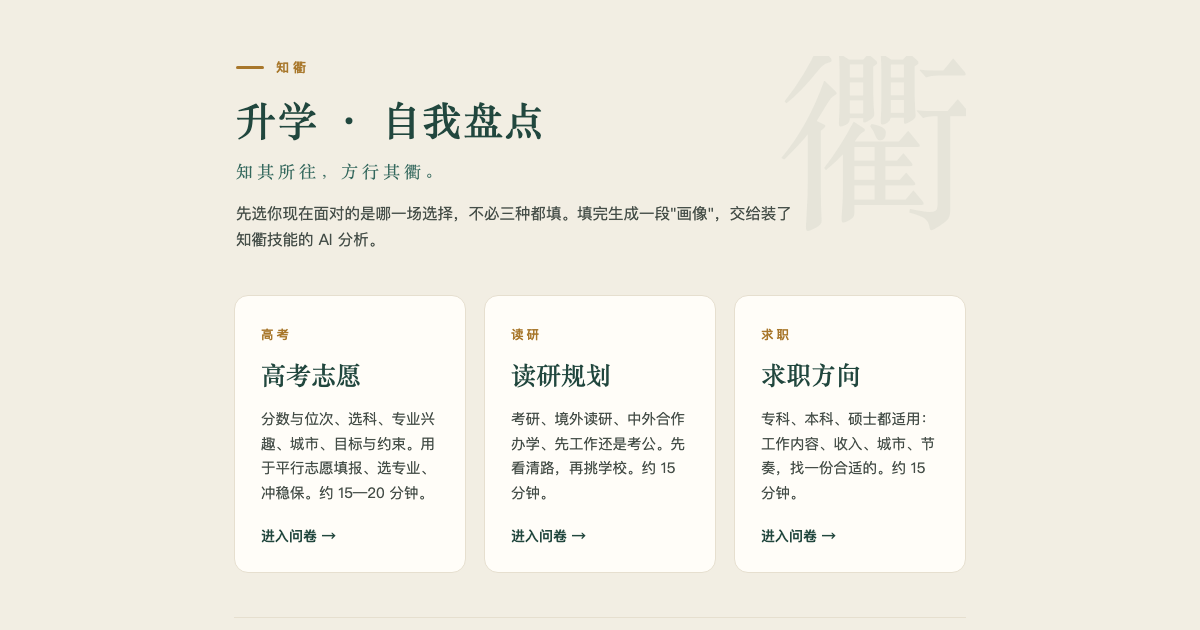
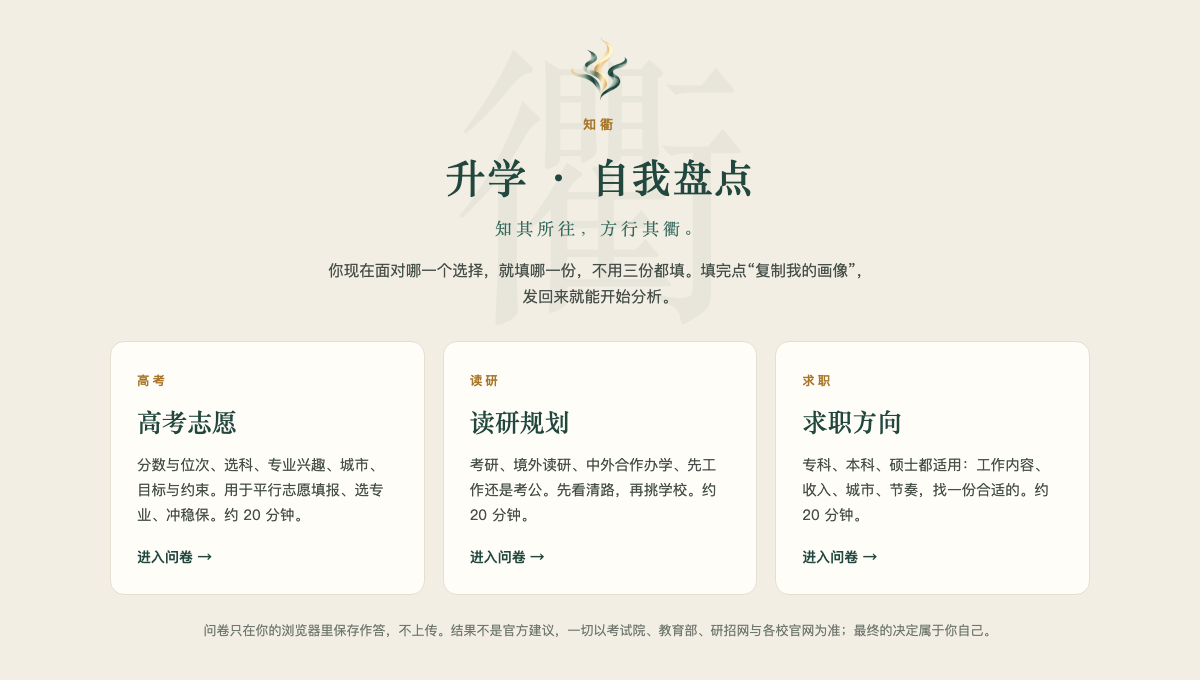
Entry page: one centred screen, watermark back, compact choices on narrow screens

diff --git a/index.html b/index.html
@@ -5,36 +5,37 @@
 <meta name="viewport" content="width=device-width, initial-scale=1.0">
 <title>知衢 · 升学自我盘点</title>
 <link rel="icon" type="image/png" href="assets/logo-192.png">
-<link rel="stylesheet" href="assets/questionnaire.css?v=20261019c">
+<link rel="stylesheet" href="assets/questionnaire.css?v=20261019d">
 </head>
-<body>
+<body class="landing">
 
-<div class="wrap">
+<main class="landing-wrap">
   <div class="hero">
+    <div class="hero-mark" aria-hidden="true">衢</div>
     <img class="hero-logo" src="assets/logo-192.png" alt="" width="64" height="64">
     <p class="eyebrow">知衢</p>
     <h1>升学 · 自我盘点</h1>
     <p class="motto">知其所往，方行其衢。</p>
-    <p class="tag">先选你现在面对的是哪一场选择，不必三种都填。填完点“复制我的画像”，发回来就能开始分析。</p>
+    <p class="tag">你现在面对哪一个选择，就填哪一份，不用三份都填。填完点“复制我的画像”，发回来就能开始分析。</p>
   </div>
 
   <div class="choices">
     <a class="choice" href="gaokao.html">
       <p class="c-eyebrow">高考</p>
       <h2>高考志愿</h2>
-      <p>分数与位次、选科、专业兴趣、城市、目标与约束。用于平行志愿填报、选专业、冲稳保。约 15—20 分钟。</p>
+      <p>分数与位次、选科、专业兴趣、城市、目标与约束。用于平行志愿填报、选专业、冲稳保。约 20 分钟。</p>
       <span class="c-go">进入问卷 →</span>
     </a>
     <a class="choice" href="grad.html">
       <p class="c-eyebrow">读研</p>
       <h2>读研规划</h2>
-      <p>考研、境外读研、中外合作办学、先工作还是考公。先看清路，再挑学校。约 15 分钟。</p>
+      <p>考研、境外读研、中外合作办学、先工作还是考公。先看清路，再挑学校。约 20 分钟。</p>
       <span class="c-go">进入问卷 →</span>
     </a>
     <a class="choice" href="career.html">
       <p class="c-eyebrow">求职</p>
       <h2>求职方向</h2>
-      <p>专科、本科、硕士都适用：工作内容、收入、城市、节奏，找一份合适的。约 15 分钟。</p>
+      <p>专科、本科、硕士都适用：工作内容、收入、城市、节奏，找一份合适的。约 20 分钟。</p>
       <span class="c-go">进入问卷 →</span>
     </a>
   </div>
@@ -42,6 +43,6 @@
   <div class="vow">
     问卷只在你的浏览器里保存作答，不上传。结果不是官方建议，一切以考试院、教育部、研招网与各校官网为准；最终的决定属于你自己。
   </div>
-</div>
+</main>
 </body>
 </html>

diff --git a/assets/questionnaire.css b/assets/questionnaire.css
@@ -150,7 +150,30 @@ textarea{resize:vertical;min-height:84px;}
 .choice p{margin:0 0 18px;font-size:14.5px;line-height:1.7;color:var(--ink-soft);flex:1;}
 .choice .c-go{font-size:14px;font-weight:600;color:var(--green-deep);}
 
-@media (max-width:860px){.choices{grid-template-columns:1fr;}}
+/* 入口页：一屏居中，不滚动 */
+.landing{min-height:100vh;min-height:100dvh;display:flex;align-items:center;justify-content:center;}
+.landing-wrap{width:100%;max-width:1060px;padding:clamp(20px,5vh,56px) 40px;}
+.landing .hero{text-align:center;overflow:visible;padding:0;}
+.landing .hero > :not(.hero-mark){position:relative;z-index:1;}
+.hero-mark{position:absolute;left:50%;top:50%;transform:translate(-50%,-52%);z-index:0;font-family:var(--serif);font-size:300px;line-height:1;color:var(--green-deep);opacity:.045;pointer-events:none;user-select:none;}
+.landing .hero-logo{margin:0 auto 12px;}
+.landing .eyebrow{justify-content:center;}
+.landing .hero .tag{margin:0 auto;}
+.landing .choices{margin:clamp(24px,4.5vh,44px) 0 0;}
+.landing .eyebrow::before{display:none;}
+.landing .vow{text-align:center;margin-top:clamp(16px,3.5vh,32px);border-top:0;padding-top:0;}
+@media (max-width:860px){.choices{grid-template-columns:1fr;}.landing .choices{gap:12px;margin-top:28px;}}
+@media (max-width:860px){
+  .landing .choice{display:grid;grid-template-columns:1fr auto;align-items:center;padding:16px 20px;}
+  .landing .choice .c-eyebrow,.landing .choice p:not(.c-eyebrow){display:none;}
+  .landing .choice h2{font-size:21px;margin:0;}
+}
+@media (max-width:560px){
+  .landing-wrap{padding:28px 16px;}
+  .landing .hero-logo{width:48px;height:48px;margin-bottom:10px;}
+  .hero-mark{font-size:200px;}
+  .landing .vow{font-size:12px;margin-top:22px;}
+}
 @media (max-width:560px){
   body{font-size:15.5px;}
   .wrap{padding:36px 16px 64px;}

diff --git a/gaokao.html b/gaokao.html
@@ -6,7 +6,7 @@
 <title>高考志愿 · 自我盘点</title>
 <script src="https://cdn.jsdelivr.net/npm/lunar-javascript@1.7.7/lunar.js" defer></script>
 <link rel="icon" type="image/png" href="assets/logo-192.png">
-<link rel="stylesheet" href="assets/questionnaire.css?v=20261019c">
+<link rel="stylesheet" href="assets/questionnaire.css?v=20261019d">
 </head>
 <body data-profile-kind="gaokao">
 
@@ -908,8 +908,8 @@
   </div>
 </div>
 
-<script src="assets/profile-recipient.js?v=20261019c"></script>
-<script src="assets/questionnaire.js?v=20261019c"></script>
+<script src="assets/profile-recipient.js?v=20261019d"></script>
+<script src="assets/questionnaire.js?v=20261019d"></script>
 <script>
   function updateBaziPreview(){
     var el=document.getElementById('baziPreview'); if(!el) return;

diff --git a/career.html b/career.html
@@ -6,7 +6,7 @@
 <title>求职 · 自我盘点</title>
 <script src="https://cdn.jsdelivr.net/npm/lunar-javascript@1.7.7/lunar.js" defer></script>
 <link rel="icon" type="image/png" href="assets/logo-192.png">
-<link rel="stylesheet" href="assets/questionnaire.css?v=20261019c">
+<link rel="stylesheet" href="assets/questionnaire.css?v=20261019d">
 </head>
 <body data-profile-kind="career">
 
@@ -819,8 +819,8 @@
   </div>
 </div>
 
-<script src="assets/profile-recipient.js?v=20261019c"></script>
-<script src="assets/questionnaire.js?v=20261019c"></script>
+<script src="assets/profile-recipient.js?v=20261019d"></script>
+<script src="assets/questionnaire.js?v=20261019d"></script>
 <script>
   function updateBaziPreview(){
     var el=document.getElementById('baziPreview'); if(!el) return;

diff --git a/grad.html b/grad.html
@@ -6,7 +6,7 @@
 <title>读研 · 自我盘点</title>
 <script src="https://cdn.jsdelivr.net/npm/lunar-javascript@1.7.7/lunar.js" defer></script>
 <link rel="icon" type="image/png" href="assets/logo-192.png">
-<link rel="stylesheet" href="assets/questionnaire.css?v=20261019c">
+<link rel="stylesheet" href="assets/questionnaire.css?v=20261019d">
 </head>
 <body data-profile-kind="grad">
 
@@ -900,8 +900,8 @@
   </div>
 </div>
 
-<script src="assets/profile-recipient.js?v=20261019c"></script>
-<script src="assets/questionnaire.js?v=20261019c"></script>
+<script src="assets/profile-recipient.js?v=20261019d"></script>
+<script src="assets/questionnaire.js?v=20261019d"></script>
 <script>
   function updateBaziPreview(){
     var el=document.getElementById('baziPreview'); if(!el) return;
